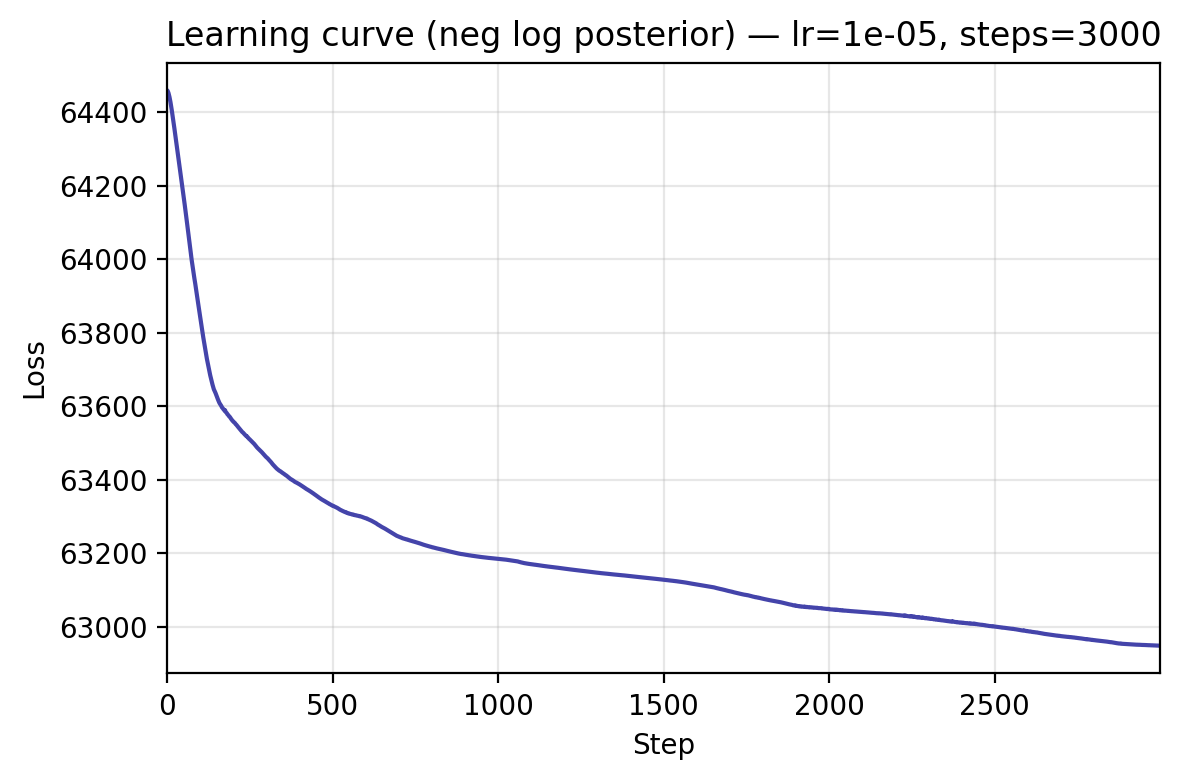
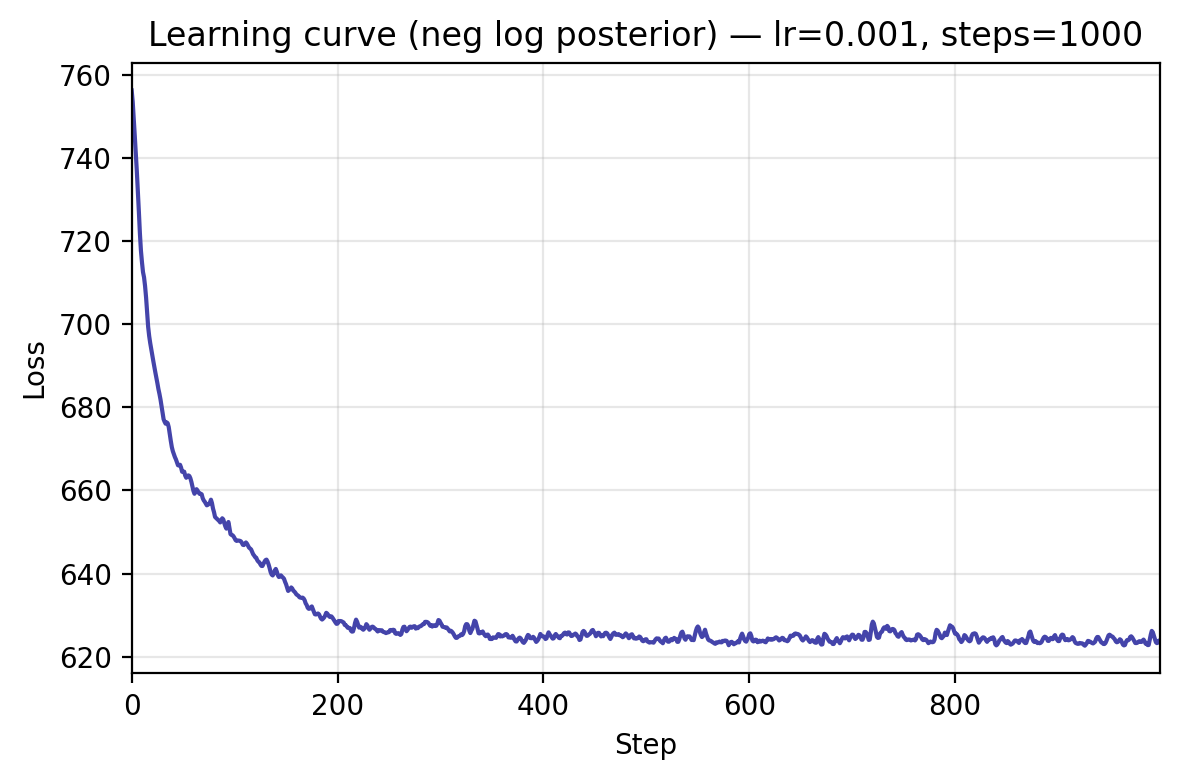
bug fix: nomalizing chebychev input correctly, makes ellipsoid scale in full wppm example reasonable and optimization work

diff --git a/src/psyphy/model/wppm.py b/src/psyphy/model/wppm.py
@@ -33,6 +33,8 @@ import jax
 import jax.numpy as jnp
 import jax.random as jr
 
+from psyphy.utils.math import chebyshev_basis
+
 from .base import Model
 from .prior import Prior
 from .task import TaskLikelihood
@@ -203,11 +205,10 @@ class WPPM(Model):
         Otherwise, applies Chebyshev basis separately to each input dimension
         and concatenates the results.
         """
-        from psyphy.utils.math import chebyshev_basis
 
-        # MVP mode: no embedding
         if self.basis_degree is None:
-            return x
+            raise ValueError("Cannot embed stimulus: basis_degree is None . "
+                             "Set basis_degree to use Wishart process.")
 
         # Normalize to [-1, 1] for numerical stability
         x_norm = self._normalize_stimulus(x)
@@ -245,6 +246,8 @@ class WPPM(Model):
     # ----------------------------------------------------------------------
     def _evaluate_basis_at_point(self, x: jnp.ndarray) -> jnp.ndarray:
         """
+        TODO: require user to provide input in chebychev range [-1,1] and have this 
+        function only check whether valid range
         Evaluate all Chebyshev basis functions at point x, keeping structure for einsum.
 
         For 2D: returns φ_ij(x) = T_i(x_1) * T_j(x_2) with shape (degree+1, degree+1)
@@ -263,7 +266,6 @@ class WPPM(Model):
             Basis function values with structured shape for efficient einsum.
             Shape is (degree+1, degree+1) for 2D or (degree+1, degree+1, degree+1) for 3D.
         """
-        from psyphy.utils.math import chebyshev_basis
 
         if self.basis_degree is None:
             raise ValueError(
@@ -271,8 +273,10 @@ class WPPM(Model):
                 "Set basis_degree to use Wishart process."
             )
 
+        # TODO: re-implement normalize_stimulus to check valid input range
+        # user is required to provide valid input in [-1, 1] for Chebyshev basis
         # Normalize to [-1, 1]
-        x_norm = self._normalize_stimulus(x)
+        x_norm = x #self._normalize_stimulus(x)
 
         if self.input_dim == 2:
             # Evaluate basis functions: φ_ij(x) = T_i(x_1) * T_j(x_2)
@@ -391,12 +395,6 @@ class WPPM(Model):
         Σ : jnp.ndarray, shape (input_dim, input_dim)
             Covariance matrix in stimulus space.
         """
-        # MVP mode: constant diagonal covariance
-        if "log_diag" in params:
-            log_diag = params["log_diag"]
-            diag = jnp.exp(log_diag)
-            return jnp.diag(diag)
-
         # Wishart mode: spatially-varying covariance
         if "W" in params:
             U = self._compute_sqrt(params, x)  # (input_dim, embedding_dim)
@@ -405,7 +403,7 @@ class WPPM(Model):
             Sigma = U @ U.T + self.diag_term * jnp.eye(self.input_dim)
             return Sigma
 
-        raise ValueError("params must contain either 'log_diag' (MVP) or 'W' (Wishart)")
+        raise ValueError("params must contain 'W' (Wishart)")
 
     # ----------------------------------------------------------------------
     # DISCRIMINABILITY (d), later implemented via MC simulation

diff --git a/docs/examples/wppm/full_wppm_fit_example.py b/docs/examples/wppm/full_wppm_fit_example.py
@@ -79,8 +79,8 @@ _UNIT_CIRCLE = np.vstack([np.cos(_THETAS), np.sin(_THETAS)])
 # # MAX_LR = jnp.float32(-3)
 
 NUM_GRID_PTS = 10  # Number of reference points over stimulus space.
-MC_SAMPLES = 60  # Number of simulated trials to compute likelihood.
-NUM_TRIALS = 4000  # Number of trials in simulated dataset.
+MC_SAMPLES = 6  # Number of simulated trials to compute likelihood.
+NUM_TRIALS = 40  # Number of trials in simulated dataset.
 # 4000 trials does not work on cpu
 
 
@@ -192,8 +192,8 @@ model = WPPM(
 
 # 4) Fit using optimizer
 print("[3/5] Fitting via MAPOptimizer ...")
-steps = 3000
-lr = 1e-5
+steps = 1000
+lr = 1e-3
 momentum = 0.9
 map_optimizer = MAPOptimizer(
     steps=steps, learning_rate=lr, momentum=momentum, track_history=True, log_every=1
